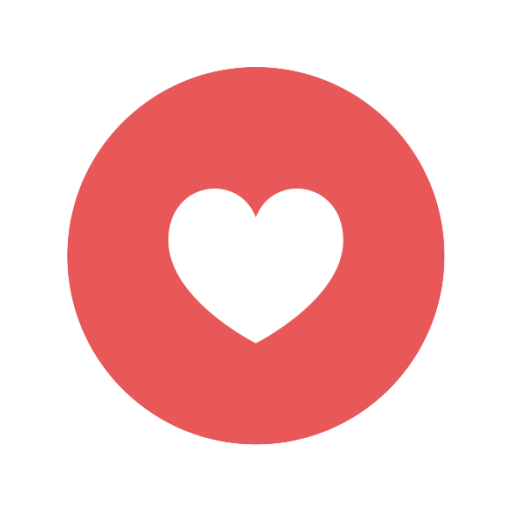
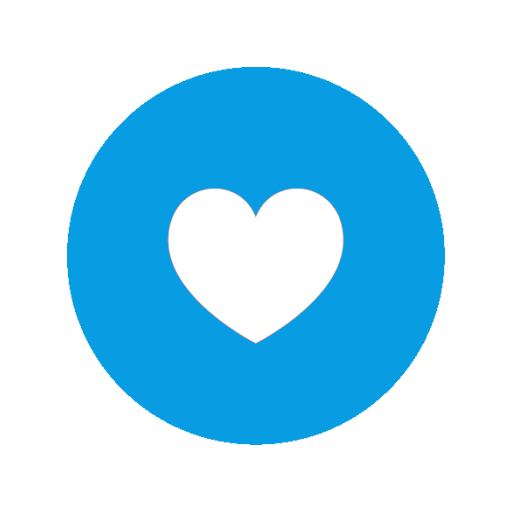
Selectors, fixed shuffle-favourite , all the pictures appears now

diff --git a/app/src/main/java/com/jojodelivery/wardrobe/Presenters/Wardrobe.java b/app/src/main/java/com/jojodelivery/wardrobe/Presenters/Wardrobe.java
@@ -71,6 +71,7 @@ public class Wardrobe extends AppCompatActivity implements View.OnClickListener,
             shirtsList = savedInstanceState.getParcelableArrayList(Constants.SHIRTS_LIST);
             trousersList = savedInstanceState.getParcelableArrayList(Constants.TROUSERS_LIST);
             favouritesSet = new HashSet<>(savedInstanceState.getStringArrayList(Constants.FAVOURITES_LIST));
+            setFavorite();
         }
 
         shirtsAdapter = new WardrobeAdapter(getSupportFragmentManager(),shirtsList);
@@ -147,6 +148,7 @@ public class Wardrobe extends AppCompatActivity implements View.OnClickListener,
                 Collections.shuffle(trousersList, new Random(seed));
                 shirtsAdapter.notifyDataSetChanged();
                 trousersAdapter.notifyDataSetChanged();
+                setFavorite();
                 break;
             case R.id.favourite:
                 Log.i(TAG,"Favourite Clicked");
@@ -223,9 +225,9 @@ public class Wardrobe extends AppCompatActivity implements View.OnClickListener,
             String combo = shirtsList.get(shirtsViewPager.getCurrentItem()).getId() + "_" +
                     trousersList.get(trousersViewPager.getCurrentItem()).getId();
             if (favouritesSet.contains(combo))
-                favouriteImageView.setImageResource(R.mipmap.favouriteon);
+                favouriteImageView.setBackgroundResource(R.drawable.favourite_on);
             else
-                favouriteImageView.setImageResource(R.mipmap.favourite);
+                favouriteImageView.setBackgroundResource(R.mipmap.favourite);
         }
     }
 

diff --git a/app/src/main/java/com/jojodelivery/wardrobe/Modal/WardrobeContentProvider.java b/app/src/main/java/com/jojodelivery/wardrobe/Modal/WardrobeContentProvider.java
@@ -220,7 +220,7 @@ public class WardrobeContentProvider extends android.content.ContentProvider {
             Cursor cursor =  sqDB.query(FavouritesTable.Yatis_Table_Favourites,
                     null, null, null, null, null, null, null);
             ArrayList<String> result = new ArrayList<>();
-            cursor.moveToFirst();
+            cursor.moveToPosition(-1);
             while (cursor.moveToNext())
             {
                 result.add(cursor.getString(cursor.getColumnIndex(FavouritesTable.Favourites_Column_Type1))+"_"+
@@ -284,7 +284,7 @@ public class WardrobeContentProvider extends android.content.ContentProvider {
         Cursor cursor =  sqDB.query(ClothesTable.Yatis_Table_Clothes,
                 null, ClothesTable.Clothes_Column_Type + "=?", new String[]{type}, null, null, null, null);
         ArrayList<Cloth> result = new ArrayList<>();
-        cursor.moveToFirst();
+        cursor.moveToPosition(-1);
         while (cursor.moveToNext())
         {
             Cloth cloth = new Cloth();
